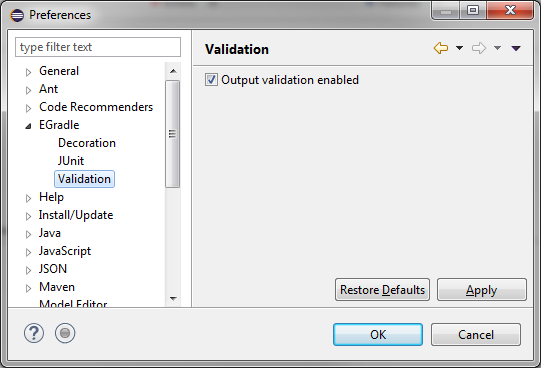
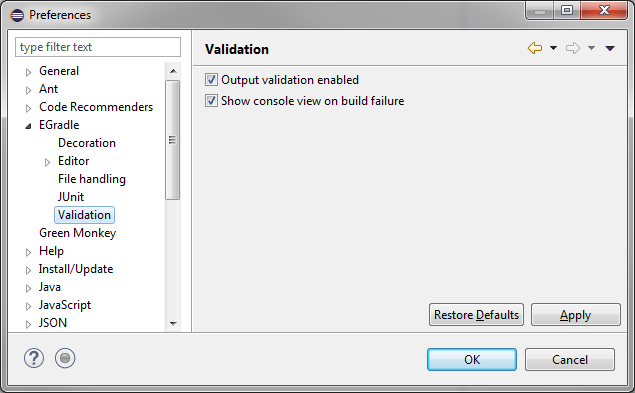
Documentation changes #162

Changed region(s): [[0.0, 0.0, 1.0, 1.0], [0.6802, 0.0, 0.7394, 0.0299]]

diff --git a/egradle-plugin-main/html/user_guide/validation.html b/egradle-plugin-main/html/user_guide/validation.html
@@ -15,8 +15,8 @@
 			<ul>
 				<li><a href="#dialog">Validation dialog</a></li>
 				<li><a href="#markers">Validation markers</a></li>
-				<li><a href="#turn_on_off">Turn on/off</a></li>
 			</ul></li>
+		<li><a href="#validation_settings">Validation settings</a></li>
 	</ul>
 	<h2 id="output_validation">Output validation</h2>
 	EGradle analyzes output of last executed gradle build.
@@ -41,20 +41,29 @@
 	</p>
 	<img src="images/egradle-validation-error-editor-marker-detail.png" />
 	<p>
-	Antoher example with a conversion error:
+	Another example with a conversion error:
 	</p>
 	<img src="images/egradle-validation-error-editor-marker-detail2.png" />
 	<p>
 		<a href="#top">Top</a>
 	</p>
 	<br><br>
+	<h2 id="validation_settings">Validation settings</h2>
+	<img src="images/egradle-preferences-validation.png" />
 	<h3 id="turn_on_off">Turn off/on output validation</h3>
 	<p>
-		You can enable or disable the output validation feature in preferences:
+		When enabled output validation is done
 	</p>
-	<img src="images/egradle-preferences-validation.png" />
+	
+	<h3>Show console view on build failure</h3>
+	<p>
+		When enabled console view will be shown before "Build failed" dialog appears.
+	</p>
+	
+	<br>
 	<p>
 		<a href="#top">Top</a>
 	</p>
+	
 </body>
 </html>
